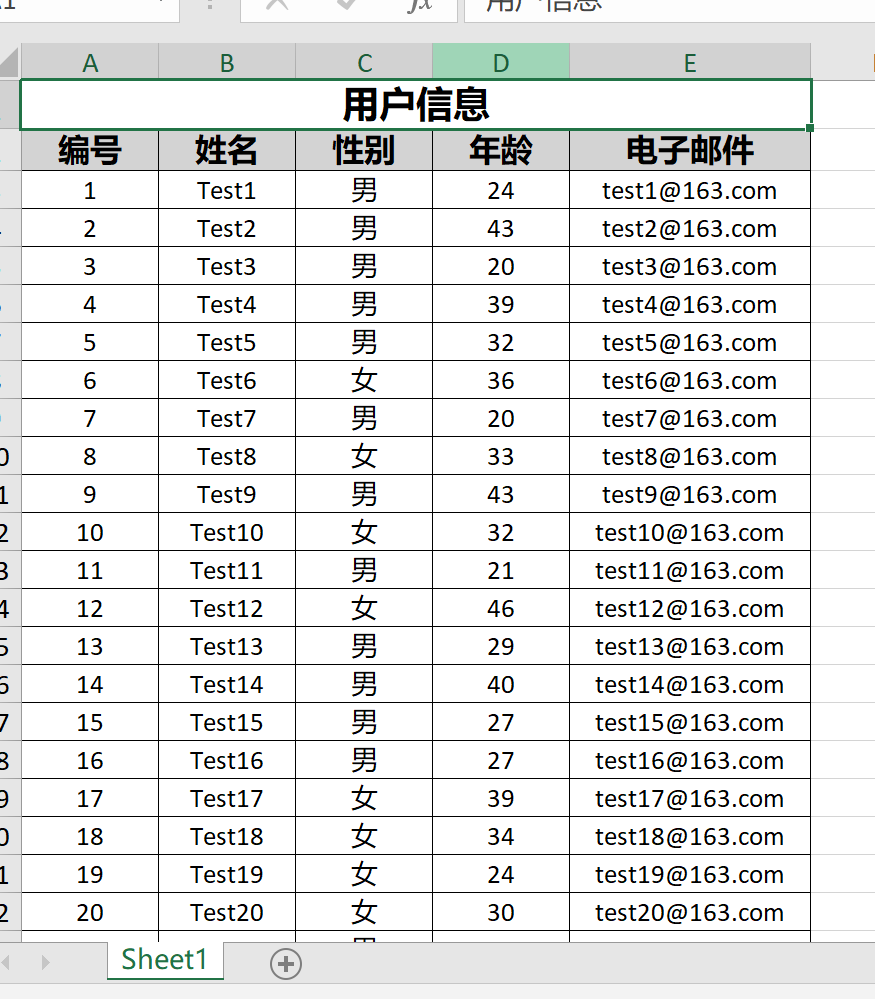
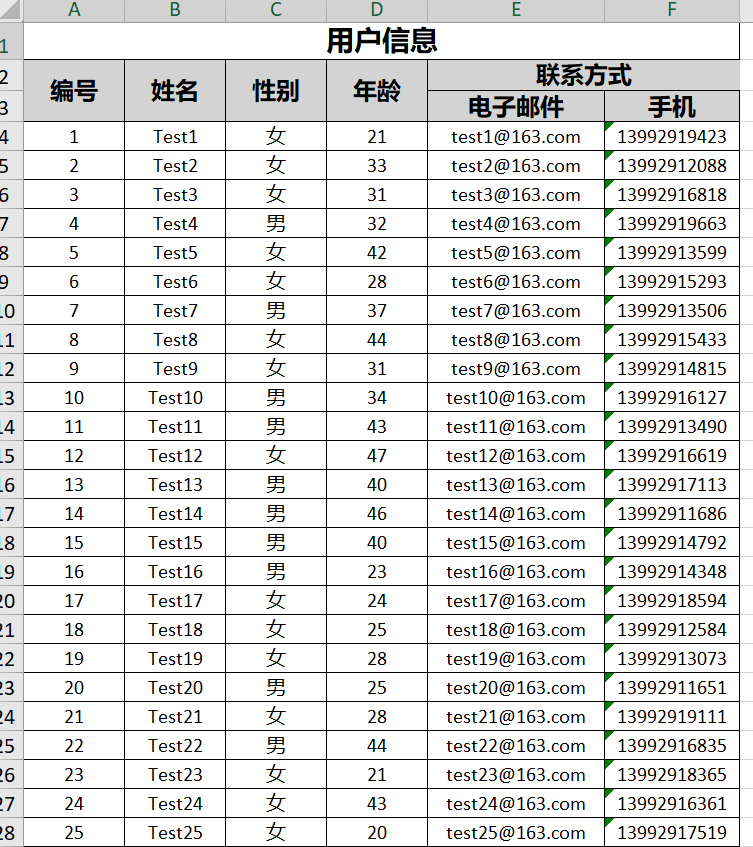
bug修改，测试、示例更新

diff --git a/ExcelCake/Intrusive/Extension/ExportExtension.cs b/ExcelCake/Intrusive/Extension/ExportExtension.cs
@@ -298,7 +298,7 @@ namespace ExcelCake.Intrusive
 
             //写入数据
             int mergeRowCount = 0;
-            if(exportSetting.ExportColumns.GroupBy(o => o.MergeText).Any(o => o.Count() > 1))
+            if(exportSetting.ExportColumns.GroupBy(o => o.MergeText).Any(o => o.Count() > 1&&o.First().MergeText!=null&&o.First().MergeText!=null))
             {
                 mergeRowCount = 1;
             }
@@ -307,33 +307,69 @@ namespace ExcelCake.Intrusive
 
             for (var i = 0; i < exportSetting.ExportColumns.Count; i++)
             {
-                if (mergeRowCount >= 1&&string.IsNullOrEmpty(exportSetting.ExportColumns[i].MergeText))
+                if (mergeRowCount >= 1 && string.IsNullOrEmpty(exportSetting.ExportColumns[i].MergeText))
                 {
-                    sheet.Cells[dataStartRow, i + dataStartCol, dataStartRow + 1, i + dataStartCol].Merge = true;
+                    sheet.Cells[dataStartRow - 1, i + dataStartCol, dataStartRow, i + dataStartCol].Merge = true;
+                    sheet.Cells[dataStartRow - 1, i + dataStartCol].Value = exportSetting.ExportColumns[i].Text;
+                    sheet.Cells[dataStartRow - 1, i + dataStartCol].Style.HorizontalAlignment = ExcelHorizontalAlignment.Center;
+                    sheet.Cells[dataStartRow - 1, i + dataStartCol].Style.VerticalAlignment = ExcelVerticalAlignment.Center;
+                    sheet.Cells[dataStartRow - 1, i + dataStartCol].Style.Font.Bold = exportSetting.ExportStyle.IsHeadBold;
+                    if (exportSetting.ExportStyle.HeadFontSize > 0)
+                    {
+                        sheet.Cells[dataStartRow - 1, i + dataStartCol].Style.Font.Size = exportSetting.ExportStyle.HeadFontSize;
+                    }
+                    sheet.Cells[dataStartRow - 1, i + dataStartCol].Style.Fill.PatternType = ExcelFillStyle.Solid;
+                    sheet.Cells[dataStartRow - 1, i + dataStartCol].Style.Fill.BackgroundColor.SetColor(headColor);
+                    sheet.Cells[dataStartRow - 1, i + dataStartCol, dataStartRow, i + dataStartCol].Style.Border.BorderAround(ExcelBorderStyle.Thin, Color.Black);
                 }
-                else if(mergeRowCount >= 1 && !string.IsNullOrEmpty(exportSetting.ExportColumns[i].MergeText))
+                else if (mergeRowCount >= 1 && !string.IsNullOrEmpty(exportSetting.ExportColumns[i].MergeText))
                 {
                     var mergeList = exportSetting.MergeList.Where(o => o.Key == exportSetting.ExportColumns[i].MergeText)?.ToList();
 
                     if (mergeList != null && mergeList.Count > 0)
                     {
-                        sheet.Cells[dataStartRow - mergeRowCount, i + dataStartCol, dataStartRow - mergeRowCount, i + dataStartCol + mergeList.First().Value].Merge = true;
+                        sheet.Cells[dataStartRow - mergeRowCount, i + dataStartCol, dataStartRow - mergeRowCount, i + dataStartCol + mergeList.First().Value - 1].Merge = true;
                         sheet.Cells[dataStartRow - mergeRowCount, i + dataStartCol].Value = exportSetting.ExportColumns[i].MergeText;
+                        sheet.Cells[dataStartRow - mergeRowCount, i + dataStartCol].Style.HorizontalAlignment = ExcelHorizontalAlignment.Center;
+                        sheet.Cells[dataStartRow - mergeRowCount, i + dataStartCol].Style.VerticalAlignment = ExcelVerticalAlignment.Center;
+                        sheet.Cells[dataStartRow - mergeRowCount, i + dataStartCol].Style.Font.Bold = exportSetting.ExportStyle.IsHeadBold;
+                        if (exportSetting.ExportStyle.HeadFontSize > 0)
+                        {
+                            sheet.Cells[dataStartRow - mergeRowCount, i + dataStartCol].Style.Font.Size = exportSetting.ExportStyle.HeadFontSize;
+                        }
+
+                        sheet.Cells[dataStartRow - mergeRowCount, i + dataStartCol].Style.Fill.PatternType = ExcelFillStyle.Solid; ;
+                        sheet.Cells[dataStartRow - mergeRowCount, i + dataStartCol].Style.Fill.BackgroundColor.SetColor(headColor);
+                        sheet.Cells[dataStartRow - mergeRowCount, i + dataStartCol, dataStartRow - mergeRowCount, i + dataStartCol + mergeList.First().Value - 1].Style.Border.BorderAround(ExcelBorderStyle.Thin, Color.Black);
                         exportSetting.MergeList.Remove(mergeList.First());
                     }
-                }
 
-                sheet.Cells[dataStartRow, i + dataStartCol].Value = exportSetting.ExportColumns[i].Text;
-                sheet.Cells[dataStartRow, i + dataStartCol].Style.HorizontalAlignment = ExcelHorizontalAlignment.Center;
-                sheet.Cells[dataStartRow, i + dataStartCol].Style.VerticalAlignment = ExcelVerticalAlignment.Center;
-                sheet.Cells[dataStartRow, i + dataStartCol].Style.Font.Bold = exportSetting.ExportStyle.IsHeadBold;
-                if (exportSetting.ExportStyle.HeadFontSize > 0)
-                {
-                    sheet.Cells[dataStartRow, i + dataStartCol].Style.Font.Size = exportSetting.ExportStyle.HeadFontSize;
+                    sheet.Cells[dataStartRow, i + dataStartCol].Value = exportSetting.ExportColumns[i].Text;
+                    sheet.Cells[dataStartRow, i + dataStartCol].Style.HorizontalAlignment = ExcelHorizontalAlignment.Center;
+                    sheet.Cells[dataStartRow, i + dataStartCol].Style.VerticalAlignment = ExcelVerticalAlignment.Center;
+                    sheet.Cells[dataStartRow, i + dataStartCol].Style.Font.Bold = exportSetting.ExportStyle.IsHeadBold;
+                    if (exportSetting.ExportStyle.HeadFontSize > 0)
+                    {
+                        sheet.Cells[dataStartRow, i + dataStartCol].Style.Font.Size = exportSetting.ExportStyle.HeadFontSize;
+                    }
+                    sheet.Cells[dataStartRow, i + dataStartCol].Style.Fill.PatternType = ExcelFillStyle.Solid;
+                    sheet.Cells[dataStartRow, i + dataStartCol].Style.Fill.BackgroundColor.SetColor(headColor);
+                    sheet.Cells[dataStartRow, i + dataStartCol].Style.Border.BorderAround(ExcelBorderStyle.Thin, Color.Black);
                 }
-                sheet.Cells[dataStartRow, i + dataStartCol].Style.Fill.PatternType = ExcelFillStyle.Solid;
-                sheet.Cells[dataStartRow, i + dataStartCol].Style.Fill.BackgroundColor.SetColor(headColor);
-                sheet.Cells[dataStartRow, i + dataStartCol].Style.Border.BorderAround(ExcelBorderStyle.Thin, Color.Black);
+                else
+                {
+                    sheet.Cells[dataStartRow, i + dataStartCol].Value = exportSetting.ExportColumns[i].Text;
+                    sheet.Cells[dataStartRow, i + dataStartCol].Style.HorizontalAlignment = ExcelHorizontalAlignment.Center;
+                    sheet.Cells[dataStartRow, i + dataStartCol].Style.VerticalAlignment = ExcelVerticalAlignment.Center;
+                    sheet.Cells[dataStartRow, i + dataStartCol].Style.Font.Bold = exportSetting.ExportStyle.IsHeadBold;
+                    if (exportSetting.ExportStyle.HeadFontSize > 0)
+                    {
+                        sheet.Cells[dataStartRow, i + dataStartCol].Style.Font.Size = exportSetting.ExportStyle.HeadFontSize;
+                    }
+                    sheet.Cells[dataStartRow, i + dataStartCol].Style.Fill.PatternType = ExcelFillStyle.Solid;
+                    sheet.Cells[dataStartRow, i + dataStartCol].Style.Fill.BackgroundColor.SetColor(headColor);
+                    sheet.Cells[dataStartRow, i + dataStartCol].Style.Border.BorderAround(ExcelBorderStyle.Thin, Color.Black);
+                }
 
                 int j = 0;
                 foreach (var item in list)
@@ -354,6 +390,12 @@ namespace ExcelCake.Intrusive
                     //{
                     //    value = "";
                     //}
+
+                    if (value != null && value.ToString()!="")
+                    {
+                        value = exportSetting.ExportColumns[i].Prefix+value+exportSetting.ExportColumns[i].Suffix;
+                    }
+
                     sheet.Cells[j + dataStartRow + 1, i + dataStartCol].Value = value??"";
                     sheet.Cells[j + dataStartRow + 1, i + dataStartCol].Style.HorizontalAlignment = ExcelHorizontalAlignment.Center;
                     sheet.Cells[j + dataStartRow + 1, i + dataStartCol].Style.VerticalAlignment = ExcelVerticalAlignment.Center;

diff --git a/ExcelCake.Example/Program.cs b/ExcelCake.Example/Program.cs
@@ -12,10 +12,11 @@ namespace ExcelCake.Example
     {
         static void Main(string[] args)
         {
-            IntrusiveExport();
-            IntrusiveMultiSheetExport();
+            //IntrusiveExport();
+            //IntrusiveMultiSheetExport();
             //NoIntrusiveExport();
             IntrusiveImport();
+
             Console.ReadKey();
         }
 
@@ -32,7 +33,8 @@ namespace ExcelCake.Example
                     Name = "Test" + (i + 1),
                     Sex = sex[random.Next(2)],
                     Age = random.Next(20, 50),
-                    Email = "test" + (i + 1) + "@163.com"
+                    Email = "test" + (i + 1) + "@163.com",
+                    TelPhone = "1399291" + random.Next(1000, 9999)
                 });
             }
             var temp = list.ExportToExcelBytes(); //导出为byte[]
@@ -58,7 +60,7 @@ namespace ExcelCake.Example
             string[] sex = new string[] { "男", "女" };
 
             Random random = new Random();
-            for (var i = 0; i < 10000; i++)
+            for (var i = 0; i < 100; i++)
             {
                 list.Add(new UserInfo()
                 {
@@ -66,14 +68,15 @@ namespace ExcelCake.Example
                     Name = "Test" + (i + 1),
                     Sex = sex[random.Next(2)],
                     Age = random.Next(20, 50),
-                    Email = "testafsdgfashgawefqwefasdfwefqwefasdggfaw" + (i + 1) + "@163.com"
+                    Email = "testafsdgfashgawefqwefasdfwefqwefasdggfaw" + (i + 1) + "@163.com",
+                    TelPhone = "1399291" + random.Next(1000, 9999)
                 });
                 list2.Add(new AccountInfo()
                 {
                     ID = i + 1,
                     Nickname = "nick" + (i + 1),
                     Password = random.Next(111111, 999999).ToString(),
-                    OldPassword=random.Next(111111, 999999).ToString(),
+                    OldPassword = random.Next(111111, 999999).ToString(),
                     AccountStatus = random.Next(2)
                 });
             }

diff --git a/ExcelCake.Example.Core/Program.cs b/ExcelCake.Example.Core/Program.cs
@@ -10,11 +10,11 @@ namespace ExcelCake.Example.Core
     {
         static void Main(string[] args)
         {
-            IntrusiveExport();
-            IntrusiveMultiSheetExport();
-            NoIntrusiveExport();
+            //IntrusiveExport();
+            //IntrusiveMultiSheetExport();
+            //NoIntrusiveExport();
             IntrusiveImport();
-            
+
             Console.ReadKey();
         }
 
@@ -31,7 +31,8 @@ namespace ExcelCake.Example.Core
                     Name = "Test" + (i + 1),
                     Sex = sex[random.Next(2)],
                     Age = random.Next(20, 50),
-                    Email = "test" + (i + 1) + "@163.com"
+                    Email = "test" + (i + 1) + "@163.com",
+                    TelPhone = "1399291" + random.Next(1000,9999)
                 });
             }
             var temp = list.ExportToExcelBytes(); //导出为byte[]
@@ -65,7 +66,8 @@ namespace ExcelCake.Example.Core
                     Name = "Test" + (i + 1),
                     Sex = sex[random.Next(2)],
                     Age = random.Next(20, 50),
-                    Email = "testafsdgfashgawefqwefasdfwefqwefasdggfaw" + (i + 1) + "@163.com"
+                    Email = "testafsdgfashgawefqwefasdfwefqwefasdggfaw" + (i + 1) + "@163.com",
+                    TelPhone = "1399291" + random.Next(1000, 9999)
                 });
                 list2.Add(new AccountInfo()
                 {

diff --git a/ExcelCake/Intrusive/ExcelHelper.cs b/ExcelCake/Intrusive/ExcelHelper.cs
@@ -94,15 +94,30 @@ namespace ExcelCake.Intrusive
             int maxColumnNum = sheet.Dimension.End.Column;
             int maxRowNum = sheet.Dimension.End.Row;
 
+            var mergeList = sheet.MergedCells;
+
             for (int m = 1; m <= maxColumnNum; m++)
             {
-                var cell = sheet.Cells[importSetting.ImportStyle.HeadRowIndex, m];
+                int cellRow = importSetting.ImportStyle.DataRowIndex - 1;
+                var cell = sheet.Cells[cellRow, m];
+                if (cell.Merge)
+                {
+                    var index = sheet.GetMergeCellId(cellRow, m);
+                    var range = sheet.MergedCells[index-1]?.Split(new char[1] {':' },StringSplitOptions.RemoveEmptyEntries);
+                    if (range != null && range.Length > 0)
+                    {
+                        cell = sheet.Cells[range[0]];
+                    }
+                }
+
                 var importColumn = importSetting.ImportColumns.Where(o => o.Text == cell.Text?.Trim()).FirstOrDefault();
                 if (importColumn != null)
                 {
                     importColumn.ColumnIndex = m;
                 }
             }
+
+            importSetting.ImportColumns = importSetting.ImportColumns.Where(o => o.ColumnIndex > 0).ToList();
 
             for (int n = importSetting.ImportStyle.DataRowIndex; n <= maxRowNum; n++)
             {

diff --git a/ExcelCake.Example/Entities/UserInfo.cs b/ExcelCake.Example/Entities/UserInfo.cs
@@ -10,11 +10,11 @@ using System.Drawing;
 namespace ExcelCake.Example
 {
     [ExportEntity(EnumColor.LightGray, "用户信息")]
-    [ImportEntity(titleRowIndex:1,headRowIndex:2,dataRowIndex:3)]
+    [ImportEntity(titleRowIndex:1,headRowIndex:2,dataRowIndex:4)]
     public class UserInfo: ExcelBase
     {
-        [Export("编号", 1)]
-        [Import("编号")]
+        [Export(name:"编号", index:1,prefix:"ID:")]
+        [Import(name:"编号",prefix:"ID:")]
         public int ID { set; get; }
 
         [Export("姓名", 2)]
@@ -25,14 +25,18 @@ namespace ExcelCake.Example
         [Import("性别")]
         public string Sex { set; get; }
 
-        [Export("年龄", 4)]
-        [Import("年龄")]
+        [Export(name:"年龄", index:4,suffix:"岁")]
+        [Import(name:"年龄",suffix:"岁",dataVerReg: @"^[1-9]\d*$", isRegFailThrowException:false)]
         public int Age { set; get; }
 
+        [ExportMerge("联系方式")]
         [Export("电子邮件", 5)]
         [Import("电子邮件")]
         public string Email { set; get; }
 
+        [ExportMerge("联系方式")]
+        [Export("手机", 6)]
+        [Import("手机")]
         public string TelPhone { set; get; }
 
         public override string ToString()

diff --git a/ExcelCake.Example.Core/Entities/UserInfo.cs b/ExcelCake.Example.Core/Entities/UserInfo.cs
@@ -10,10 +10,10 @@ using System.Drawing;
 namespace ExcelCake.Example
 {
     [ExportEntity(EnumColor.LightGray, "用户信息")]
-    [ImportEntity(titleRowIndex:1,headRowIndex:2,dataRowIndex:3)]
+    [ImportEntity(titleRowIndex:1,headRowIndex:2,dataRowIndex:4)]
     public class UserInfo: ExcelBase
     {
-        [Export("编号", 1)]
+        [Export(name:"编号", index:1,prefix:"ID:")]
         [Import(name:"编号",prefix:"ID:")]
         public int ID { set; get; }
 
@@ -25,14 +25,18 @@ namespace ExcelCake.Example
         [Import("性别")]
         public string Sex { set; get; }
 
-        [Export("年龄", 4)]
-        [Import("年龄")]
+        [Export(name:"年龄", index:4,suffix:"岁")]
+        [Import(name:"年龄",suffix:"岁",dataVerReg: @"^[1-9]\d*$", isRegFailThrowException:false)]
         public int Age { set; get; }
 
+        [ExportMerge("联系方式")]
         [Export("电子邮件", 5)]
         [Import("电子邮件")]
         public string Email { set; get; }
 
+        [ExportMerge("联系方式")]
+        [Export("手机", 6)]
+        [Import("手机")]
         public string TelPhone { set; get; }
 
         public override string ToString()

diff --git a/README.md b/README.md
@@ -46,11 +46,11 @@ gitee: https://gitee.com/winstonwxj
 
 ```C#
     [ExportEntity(EnumColor.LightGray,"用户信息")]
-    [ImportEntity(titleRowIndex:1,headRowIndex:2,dataRowIndex:3)]
+    [ImportEntity(titleRowIndex:1,headRowIndex:2,dataRowIndex:4)]
     public class UserInfo: ExcelBase
     {
-        [Export("编号", 1)]
-        [Import("编号")]
+        [Export(name:"编号", index:1,prefix:"ID:")]
+        [Import(name:"编号",prefix:"ID:")]
         public int ID { set; get; }
 
         [Export("姓名", 2)]
@@ -61,14 +61,18 @@ gitee: https://gitee.com/winstonwxj
         [Import("性别")]
         public string Sex { set; get; }
 
-        [Export("年龄", 4)]
-        [Import("年龄")]
+        [Export(name:"年龄", index:4,suffix:"岁")]
+        [Import(name:"年龄",suffix:"岁",dataVerReg: @"^[1-9]\d*$", isRegFailThrowException:false)]
         public int Age { set; get; }
 
+        [ExportMerge("联系方式")]
         [Export("电子邮件", 5)]
         [Import("电子邮件")]
         public string Email { set; get; }
 
+        [ExportMerge("联系方式")]
+        [Export("手机", 6)]
+        [Import("手机")]
         public string TelPhone { set; get; }
 
         public override string ToString()
@@ -112,7 +116,8 @@ gitee: https://gitee.com/winstonwxj
                 Name = "Test" + (i + 1),
                 Sex = sex[random.Next(2)],
                 Age = random.Next(20, 50),
-                Email = "test" + (i + 1) + "@163.com"
+                Email = "test" + (i + 1) + "@163.com",
+                TelPhone = "1399291" + random.Next(1000, 9999)
             });
         }
         var temp = list.ExportToExcelBytes(); //导出为byte[]
@@ -150,7 +155,8 @@ gitee: https://gitee.com/winstonwxj
                 Name = "Test" + (i + 1),
                 Sex = sex[random.Next(2)],
                 Age = random.Next(20, 50),
-                Email = "testafsdgfashgawefqwefasdfwefqwefasdggfaw" + (i + 1) + "@163.com"
+                Email = "testafsdgfashgawefqwefasdfwefqwefasdggfaw" + (i + 1) + "@163.com",
+                TelPhone = "1399291" + random.Next(1000, 9999)
             });
             list2.Add(new AccountInfo()
             {
@@ -181,6 +187,9 @@ gitee: https://gitee.com/winstonwxj
 ```
 ![avatar](./pics/pic3.PNG)
 ![avatar](./pics/pic4.PNG)
+
+#### 基于特性导入Excel文件
+![avatar](./pics/pic7.PNG)
 
 #### 基于特性导入
 ```C#
